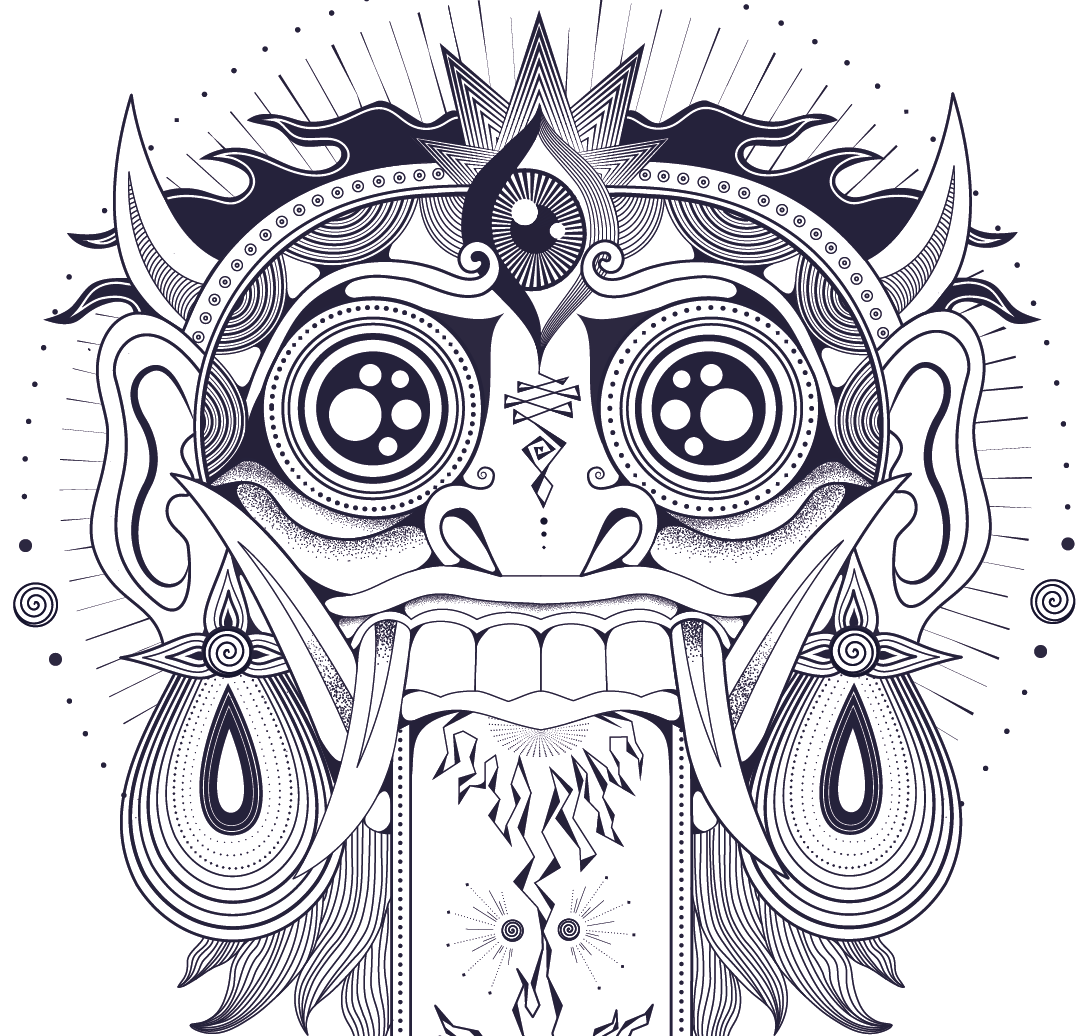
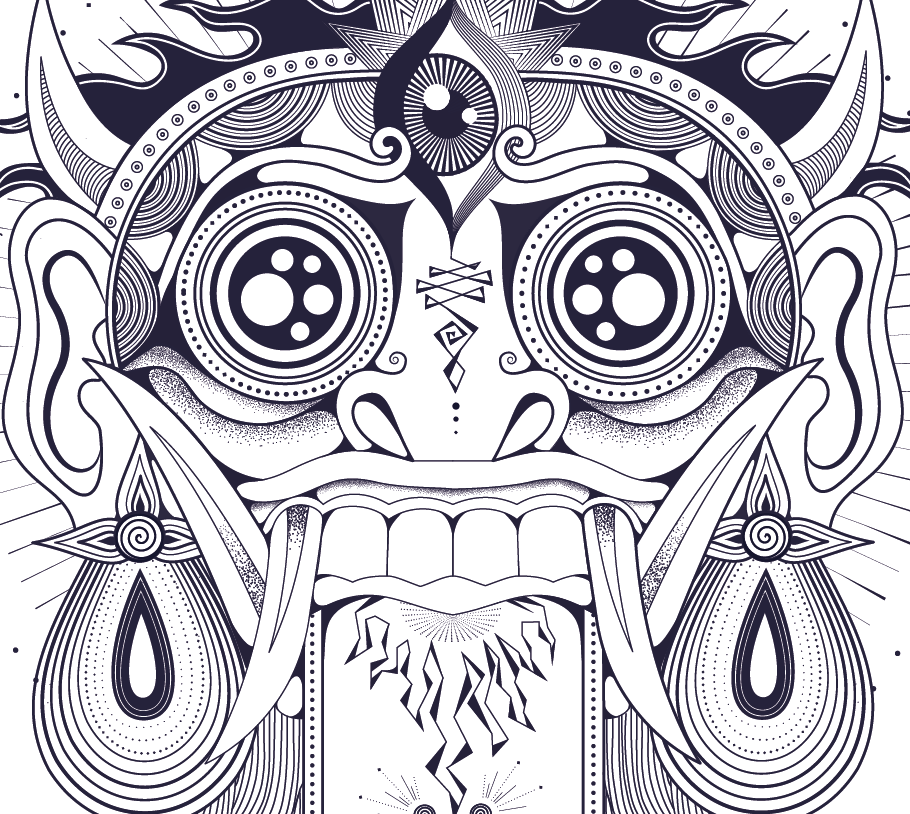
header image

diff --git a/css/gaia.css b/css/gaia.css
@@ -1,12 +1,18 @@
 header{
 	text-align: center; 
-	padding-top: 20px;
+	padding-top: 0px;
+}
+
+
+.header-image {
+	padding-right: 9px;
 }
 
 #wrapper{ 
 max-width: 960px;
 margin: 0 auto;
-padding: 32px;
+padding-top: 42px;
+padding-bottom: 15px;
  }
 
 header h1{ 
@@ -14,8 +20,8 @@ header h1{
 	letter-spacing: 10px;
 	text-transform: uppercase;
 	text-align: center;
-	line-height: 50px;
-padding-bottom:10px;
+	line-height: 0px;
+padding-bottom:25px;
 text-align: center; 
 }
 
@@ -29,7 +35,6 @@ text-align: center;
 
 .nav li{
 	display: inline; 
-	padding-top: 0 10px 0 10px
 }
 
 .nav a{

diff --git a/index.html b/index.html
@@ -11,6 +11,7 @@
 <div id="wrapper">
 
 	<header>
+			<div class="header-image"><img src="images/logo.jpg" width="200"> </div>
 		<h1>Gaia Weber </h1>
 		<nav>
 			<ul class="nav">
@@ -24,6 +25,8 @@
 	<div class="grid">
 
 	<main>
+
+
 	<ul class="img">
 
 			<div class="container">

diff --git a/digital.html b/digital.html
@@ -2,6 +2,8 @@
 <html>
 <head>
 	<title>Gaia Weber</title>
+				<img src="images/logo.jpg"class="fit-image">
+
 	<link rel="stylesheet" type="text/css" href="css/digital.css">
 	<link href="https://fonts.googleapis.com/css?family=Raleway&display=swap" rel="stylesheet">
 </head>
